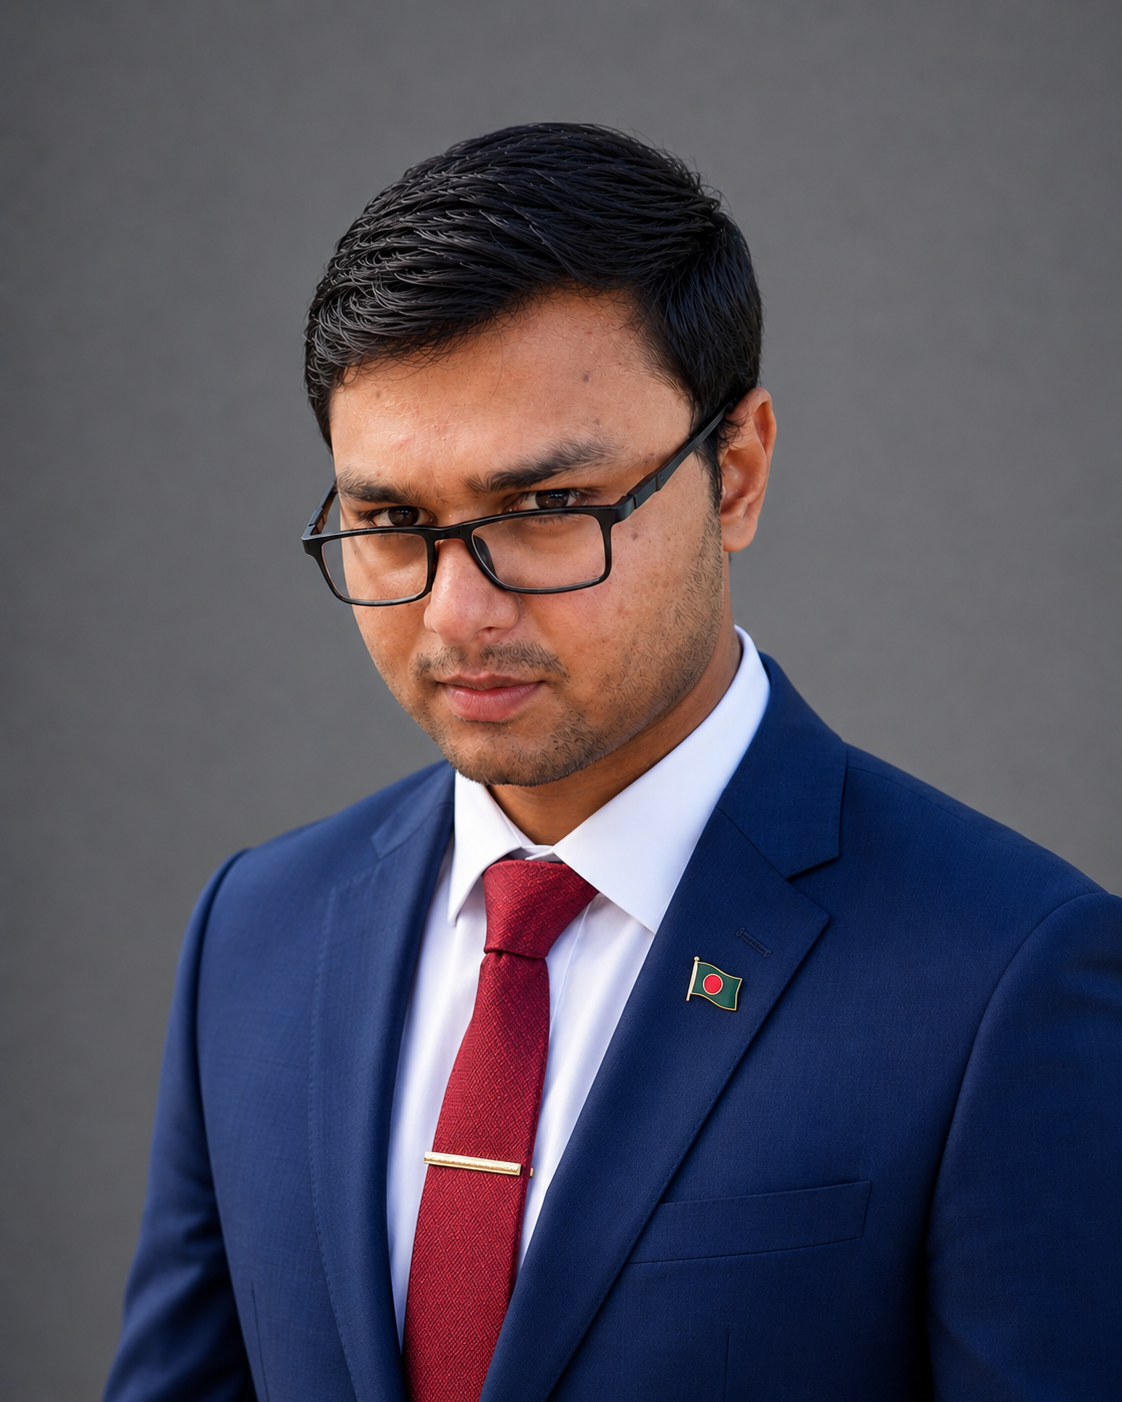
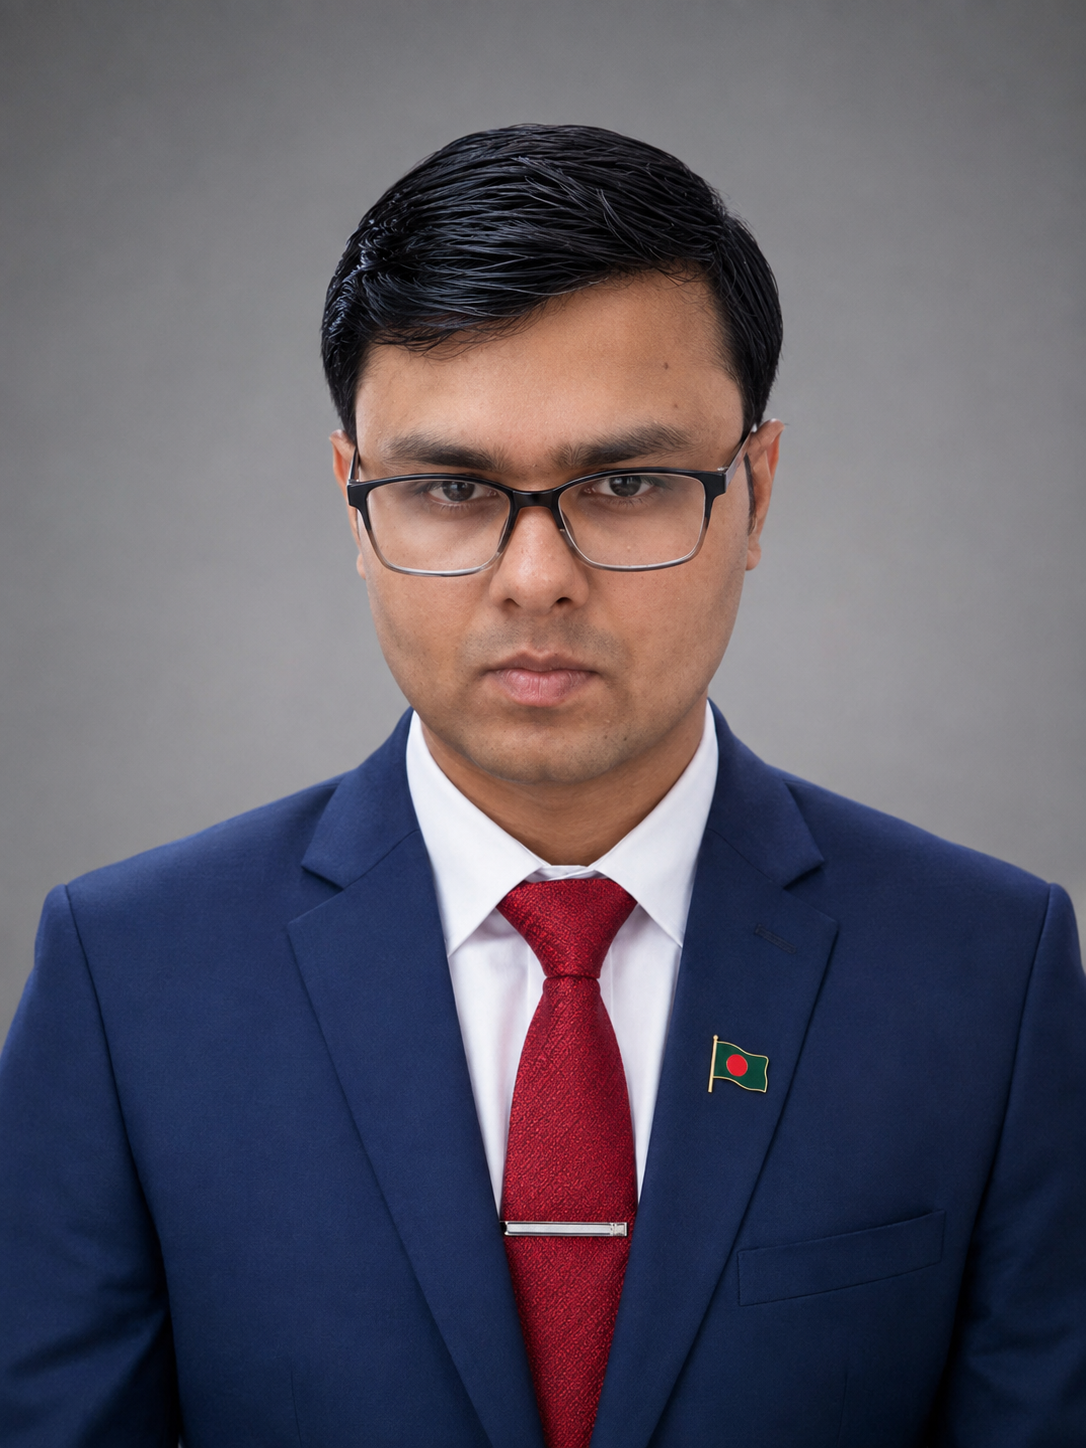
version-3

diff --git a/components/portfolio/sections/HeroSection.tsx b/components/portfolio/sections/HeroSection.tsx
@@ -52,14 +52,14 @@ export function HeroSection() {
       </div>
 
       <div className="relative flex-shrink-0 z-10">
-        <div className="absolute -inset-3 rounded-2xl bg-gradient-to-br from-cyan-500/20 via-purple-600/10 to-pink-500/10 blur-xl" />
-        <div className="relative w-64 h-64 md:w-80 md:h-80 rounded-2xl overflow-hidden border border-white/10 shadow-2xl">
+        <div className="absolute -inset-5 rounded-2xl bg-gradient-to-br from-cyan-500/20 via-purple-600/10 to-pink-500/10 blur-xl" />
+        <div className="relative w-80 h-80 md:w-[24rem] md:h-[24rem] rounded-[1.8rem] overflow-hidden border border-white/10 shadow-2xl shadow-cyan-500/10">
           <Image
             src="/myphoto.png"
             alt="Yousof Hossain Shouv"
             fill
-            sizes="(max-width:768px) 240px, 320px"
-            className="object-cover"
+            sizes="(max-width:768px) 320px, 384px"
+            className="object-cover scale-[1.08]"
             priority
           />
         </div>
